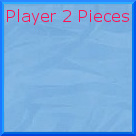
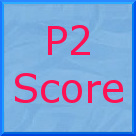
Markers working with shaders, need timer

diff --git a/code2/src/XMLscene.js b/code2/src/XMLscene.js
@@ -114,14 +114,14 @@ XMLscene.prototype.onGraphLoaded = function () {
   	}
   }
 
+  this.textShader=new CGFshader(this.gl, "shaders/font.vert", "shaders/font.frag");
+  this.textTexture = this.textures['font'];
+
   for(var i=0; i<this.graph.nodes.length; i++){
   	if(this.graph.nodes[i].tagId.substring(0, 7) == "screen-"){
   		new Marker(this, this.graph.nodes[i], this.textTexture);
   	}
   }
-
-	this.textShader=new CGFshader(this.gl, "shaders/font.vert", "shaders/font.frag");
-	this.textTexture = this.textures['font'];
 
   this.numHandPiecesP1 = 1;
   this.numHandPiecesP2 = 1;
@@ -165,12 +165,22 @@ XMLscene.prototype.updateObjects = function(){
       if(obj instanceof Piece){
         obj.animate(this.timeInterval/1000);
       }
-      if(obj instanceof Marker){
-      	if(this.gameStatesStack.length > 0){
-      		var nowState = this.gameStatesStack[this.gameStatesStack.length - 1];
-      		obj.valueToShow = nowState.player1Pieces.length + nowState.player1HandPieces.length;
-      	}else{
-      		obj.valueToShow = 0;
+      if(obj.ID.substring(0, 7) == "screen-"){
+      	if(obj.ID.substring(0, 12) == "screen-board" && obj.ID.substring(13, 14) == "1"){
+			if(this.gameStatesStack.length > 0){
+				var nowState = this.gameStatesStack[this.gameStatesStack.length - 1];
+				obj.valueToShow = nowState.player1Pieces.length + nowState.player1HandPieces.length;
+			}else{
+				obj.valueToShow = 0;
+			}
+      	}
+      	if(obj.ID.substring(0, 12) == "screen-board" && obj.ID.substring(13, 14) == "2"){
+			if(this.gameStatesStack.length > 0){
+				var nowState = this.gameStatesStack[this.gameStatesStack.length - 1];
+				obj.valueToShow = nowState.player2Pieces.length + nowState.player2HandPieces.length;
+			}else{
+				obj.valueToShow = 0;
+			}
       	}
       }
     }
@@ -930,8 +940,8 @@ XMLscene.prototype.processNodeDisplay = function (obj) {
 	}
 
 	if(obj instanceof Marker){
-  	this.setActiveShaderSimple(this.defaultShader);
-  }
+		this.setActiveShaderSimple(this.defaultShader);
+	}
 
 	this.parentMaterial = matAnt;
 	this.parentTexture = texAnt;

diff --git a/code2/src/Marker.js b/code2/src/Marker.js
@@ -1,13 +1,14 @@
 
 function Marker(scene, markerForm, font) {
 
+	this.ID = markerForm.tagId;
+
 	this.scene = scene;
 	
 	this.valueToShow;
-
 	this.font = font;
-
-	this.ID = markerForm.tagId;
+	this.leftScreen = this.ID.substring(0, this.ID.length - 1) + 1;
+	this.rightScreen = this.ID.substring(0, this.ID.length - 1) + 2;
 
 	this.descendants = markerForm.children;
 
@@ -59,12 +60,24 @@ function Marker(scene, markerForm, font) {
 };
 
 Marker.prototype.setShaderValues = function(){
-	this.scene.setActiveShaderSimple(this.scene.textShader);
+	if(this.ID.substring(0, 12) == "screen-board" && this.ID.substring(14, 15) == "1"){
+		this.scene.setActiveShaderSimple(this.scene.textShader);
 
-	this.scene.textShader.setUniformsValues({'dims': [16, 16.3]});
-	
-	this.scene.textShader.setUniformsValues({'uSampler': 0});
-	this.scene.textShader.setUniformsValues({'uSampler2': 1});
+		this.scene.textShader.setUniformsValues({'dims': [16.3, 16.3]});
 
-	this.scene.textShader.setUniformsValues({'charCoords': [7, 3]});
+		this.scene.textShader.setUniformsValues({'uSampler': 0});
+		this.scene.textShader.setUniformsValues({'uSampler2': 1});
+
+		this.scene.textShader.setUniformsValues({'charCoords': [Math.floor(this.valueToShow / 10) - 0.2, 3]});
+  	}
+  	if(this.ID.substring(0, 12) == "screen-board" && this.ID.substring(14, 15) == "2"){
+		this.scene.setActiveShaderSimple(this.scene.textShader);
+
+		this.scene.textShader.setUniformsValues({'dims': [16, 16.3]});
+
+		this.scene.textShader.setUniformsValues({'uSampler': 0});
+		this.scene.textShader.setUniformsValues({'uSampler2': 1});
+
+		this.scene.textShader.setUniformsValues({'charCoords': [this.valueToShow % 10 - 0.1, 3]});
+  	}
 };
